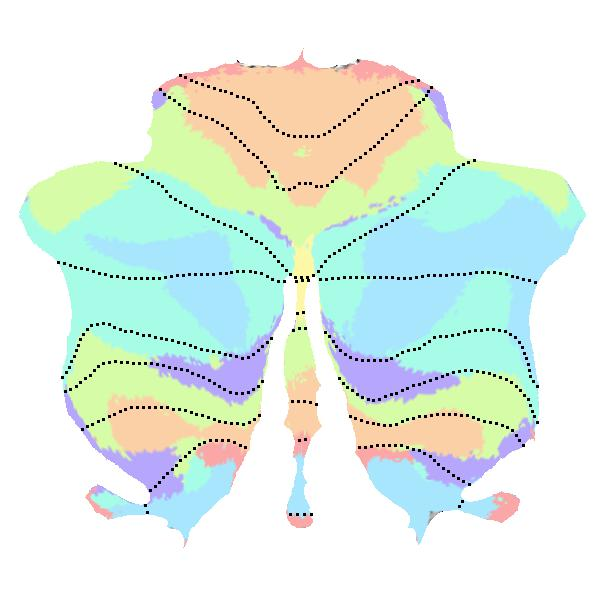
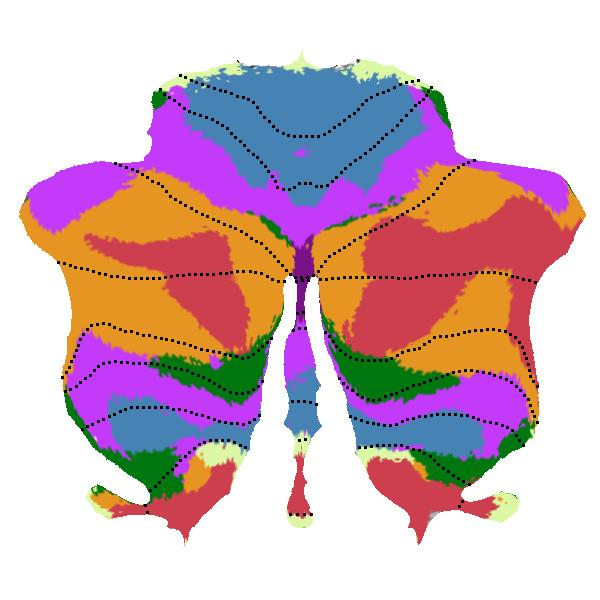
Cleanup

diff --git a/flatmap.py b/flatmap.py
@@ -46,7 +46,8 @@ fragment_shader = """
     }
     """
 
-def plot(data=[], surf="", underlay="", undermap="", underscale = [-1, 0.5], threshold=[], cmap="", borders="", cscale = [], alpha=1, overlay_type = "func", output_file="output/file.jpg"):
+
+def plot(data=[], surf="", underlay="", undermap="", underscale=[-1, 0.5], threshold=[], cmap="", borders="", cscale=[], alpha=1, overlay_type="func", output_file="output/file.jpg"):
     """
     Plots the flatmap using PyOpenGL
     
@@ -110,6 +111,7 @@ def plot(data=[], surf="", underlay="", undermap="", underscale = [-1, 0.5], thr
     # Render with PyOpenGL
     render(surf_faces, layer_render, borders_render, output_file)
 
+
 def load_topo(filename):
     """
     Load data using nibabel. Returns the topology of the flatmap.
@@ -123,6 +125,7 @@ def load_topo(filename):
     faces = gifti_image.darrays[1].data.flatten()
 
     return vertices, faces
+
 
 def load_underlay(underlay_file, numVert, underscale, undermap):
     """
@@ -144,18 +147,18 @@ def load_underlay(underlay_file, numVert, underscale, undermap):
     underlay_data = underlay.darrays[0].data # underlay.cdata, (25935, 1)
 
     # scale underlay color
-    underlay_data[:] = ((underlay_data[:] - underscale[0]) / (underscale[1] - underscale[0]))
-    underlay_data[underlay_data<(-1)]=-1
-    underlay_data[underlay_data>1]=1
+    underlay_data = ((underlay_data - underscale[0]) / (underscale[1] - underscale[0]))
+    underlay_data[underlay_data < (-1)] = -1
+    underlay_data[underlay_data > 1] = 1
 
     # load default cmap
-    if (undermap == ""):
+    if undermap == "":
         underlay_color = np.repeat(underlay_data, 3)
         underlay_color = np.reshape(underlay_color, (len(underlay_data), 3))
     # else load given cmap
     else:
         try:
-            underlay_cmap = cm.get_cmap(undermap, numVert);
+            underlay_cmap = cm.get_cmap(undermap, numVert)
             underlay_color = underlay_cmap(underlay_data)
         except:
             raise Exception("Please enter a valid cmap or leave blank for default cmap. See matplotlib for more cmaps.");
@@ -165,8 +168,8 @@ def load_underlay(underlay_file, numVert, underscale, undermap):
     
     return underlay_color
 
-def load_overlay(data, numVert, cmap, cscale, threshold, overlay_type):
 
+def load_overlay(data, numVert, cmap, cscale, threshold, overlay_type):
     """
     Returns overlay data for rendering. Returns list of indices in overlay_color where the positive overlay will be rendered.
     
@@ -196,35 +199,35 @@ def load_overlay(data, numVert, cmap, cscale, threshold, overlay_type):
     overlay_data = overlay.darrays[0].data
 
     # check that overlay data is the right np.array shape
-    if (len(overlay_data) != numVert):
+    if len(overlay_data) != numVert:
         raise Exception('Input data must be an array of size numVertices * 1')
 
     # load default cmap
-    if (not cmap):
+    if not cmap:
         overlay_cmap = default_cmap()
     # else, load given cmap
     else: 
         # Txt file with colors for type=labels
-        if (cmap.endswith(".txt")):
+        if cmap.endswith(".txt"):
             overlay_cmap = default_cmap()
-            label_colors = np.loadtxt(cmap)/255
+            label_colors = np.loadtxt(cmap)  # Here, we always use 0-1 scale RGB colors
         else:
             try:
-                overlay_cmap = cm.get_cmap(cmap, numVert);
+                overlay_cmap = cm.get_cmap(cmap, numVert)
             except:
-                raise Exception("Please enter a valid cmap or param blank for default cmap. See matplotlib for more cmaps.");
+                raise Exception("Please enter a valid cmap or param blank for default cmap. See matplotlib for more cmaps.")
 
     indx = []
 
     # determine overlay type
-    if (overlay_type == 'label'):
+    if overlay_type == 'label':
         overlay_data = overlay_data /100
-        indx = np.nonzero((overlay_data[:] > -1) & (overlay_data[:] <= 1))
+        indx = np.nonzero((overlay_data > -1) & (overlay_data <= 1))
 
         overlay_color = overlay_cmap(overlay_data)
         overlay_color = overlay_color[:, 0:3]
 
-        if (cmap.endswith(".txt")):
+        if cmap.endswith(".txt"):
             unique_val = np.unique(overlay_color, axis=0)
             unique_val = unique_val[1:]
 
@@ -235,32 +238,30 @@ def load_overlay(data, numVert, cmap, cscale, threshold, overlay_type):
             for i in range(count):
                 overlay_color = np.where(overlay_color==unique_val[i], label_colors[i], overlay_color)
 
-
-    elif (overlay_type == 'func'):
+    elif overlay_type == 'func':
         if (not cscale) or (np.any(np.isnan(cscale))):
             cscale = [np.nanmin(overlay_data), np.nanmax(overlay_data)]
 
         # scale overlay color
-        overlay_data[:] = (overlay_data[:] - cscale[0]) / (cscale[1] - cscale[0])
-        overlay_data[overlay_data<-1] = 0
-        overlay_data[overlay_data>1] = 1
-
+        overlay_data = (overlay_data - cscale[0]) / (cscale[1] - cscale[0])
+        overlay_data[overlay_data < -1] = 0
+        overlay_data[overlay_data > 1] = 1
 
         # check that threshold value is valid
-        if (threshold):
-            if ((threshold[0] > 1) | (threshold[0] < -1)):
+        if threshold:
+            if (threshold[0] > 1) | (threshold[0] < -1):
                 raise Exception('Threshold value must be between 0 and 1.')
             else:
                 # find indices where overlay_data is greater than threshold (returns an array)
-                indx = np.nonzero((overlay_data[:] > threshold[0]))
+                indx = np.nonzero((overlay_data > threshold[0]))
         else:
-            indx = np.nonzero((overlay_data[:] > -1) & (overlay_data[:] <= 1))
+            indx = np.nonzero((overlay_data > -1) & (overlay_data <= 1))
         
         # apply overlay color
         overlay_color = overlay_cmap(overlay_data)  
         overlay_color = overlay_color[:, 0:3]
 
-    elif (overlay_type == 'rgb'):
+    elif overlay_type == 'rgb':
         overlay_data = overlay_data
         # apply overlay color
         overlay_color = overlay_cmap(overlay_data)  
@@ -268,11 +269,10 @@ def load_overlay(data, numVert, cmap, cscale, threshold, overlay_type):
     else:
         raise Exception("Unknown overlay type. Must be 'label', 'func'm or 'rgb'.")
 
-
     return overlay_color, indx
 
-def blend_underlay_overlay(underlay_color, overlay_color, indx, alpha):
 
+def blend_underlay_overlay(underlay_color, overlay_color, indx, alpha):
     """
     Blends the underlay and overlay using alpha blending.
     
@@ -288,7 +288,7 @@ def blend_underlay_overlay(underlay_color, overlay_color, indx, alpha):
     """
 
     if not indx:
-        return underlay_color;
+        return underlay_color
     else:
         # alpha blending using porter and duff eqns
         # out_alpha = src_alpha + dst_alpha(1-src_alpha)
@@ -297,7 +297,8 @@ def blend_underlay_overlay(underlay_color, overlay_color, indx, alpha):
         out_rgb = (overlay_color[indx]*alpha + underlay_color[indx] * (1-alpha))
         underlay_color[indx] = out_rgb
 
-    return underlay_color;
+    return underlay_color
+
 
 def default_cmap():
 
@@ -376,6 +377,7 @@ def default_cmap():
 
     return parula_map
 
+
 def load_borders(border_file, surf_vertices):
     """
     Look up the vertices coord to find which node is the border and make it black color for rendering. Returns the border_data array.
@@ -396,6 +398,7 @@ def load_borders(border_file, surf_vertices):
     border_render = np.array(border_render.flatten(), dtype=np.float32)
 
     return border_render
+
 
 def render_underlay(underlay, faces, shader):
     """
@@ -428,6 +431,7 @@ def render_underlay(underlay, faces, shader):
 
     glDrawElements(GL_TRIANGLES, faces.shape[0], GL_UNSIGNED_INT, None)
 
+
 def render_borders(borders_buffer, shader):
     """
     Renders borders
@@ -438,7 +442,6 @@ def render_borders(borders_buffer, shader):
         shader (shader)
             The compiled shader program by opengl pipeline
     """
-
     #for border_info in borders_buffer:
     BBO = glGenBuffers(1)
     glBindBuffer(GL_ARRAY_BUFFER, BBO)
@@ -453,6 +456,7 @@ def render_borders(borders_buffer, shader):
     glEnableVertexAttribArray(b_color)
     glPointSize(3)
     glDrawArrays(GL_POINTS, 0, int(borders_buffer.shape[0] / 7))
+
 
 def render(vertices_index, layer, borders, output_file):
     """
@@ -501,8 +505,7 @@ def render(vertices_index, layer, borders, output_file):
     render_borders(borders, shader)  # -- border buffer object
 
     # save window to jpg
-    render_to_jpg(output_file);
-
+    render_to_jpg(output_file)
 
     glDisable(GL_BLEND)  # Disable gl blending from this point
     glDepthMask(GL_TRUE)
@@ -521,6 +524,7 @@ def render(vertices_index, layer, borders, output_file):
 
     glfw.terminate()
 
+
 def render_to_jpg(output_file):
     """
     Save PyOpenGL render as image
@@ -538,10 +542,12 @@ def render_to_jpg(output_file):
 
     image.save(output_file)
 
+
 def window_resize(window, width, height):
     glViewport(0, 0, width, height)
 
+
 if __name__ == "__main__":
-    plot("data/Wiestler_2011_motor_z.gii", cscale=[0,2])
+    #plot("data/Wiestler_2011_motor_z.gii", cscale=[0, 2])
     #suit_plotflatmap("data/HCP_WM_BODY_vs_REST.gii", cmap='hot', threshold=[0.25], cscale=[0,2])
-    #suit_plotflatmap("data/Buckner_7Networks.gii", overlay_type="label", cmap="data/labels_cmap.txt")
+    plot("data/Buckner_7Networks.gii", overlay_type="label", cmap="data/Buckner_7Networks_cmap.txt")
